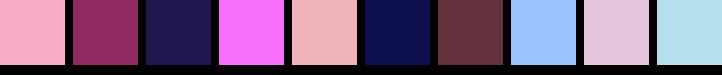
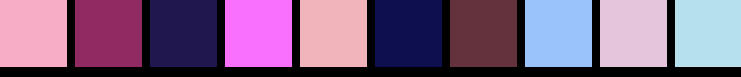
refactored corrected sizing bug

Changed region(s): [[0.2742, 0.8533, 0.6094, 0.88], [0.7008, 0.8533, 1.0, 0.88], [0.0, 0.8533, 0.2133, 0.88]]

diff --git a/src/img_copy.rs b/src/img_copy.rs
@@ -21,9 +21,11 @@ impl FramedPicture {
     ///
     /// # Return
     /// * FramedPicture struct
-    pub fn new(width: u32, height: u32) -> Self {
+    pub fn new(width: u32, height: u32, n: Option<u32>) -> Self {
+        let dims = FramedPicture::compute_palette_size(
+            width, n.unwrap_or(10));
         let w = width + 20;
-        let h = height+ 30 + dims.0;
+        let h = height + 30 + dims.0;
         let tmp: ImageBuffer<Rgba<u8>, Vec<u8>> = ImageBuffer::from_fn(
             w, h, |_,_| { Rgba([255, 252, 234, 1]) });
 
@@ -46,26 +48,26 @@ impl FramedPicture {
     pub fn draw_palette(&mut self, n: u32,
                         top_colors: &Vec<(u32, &ColorCount)>)
                         -> ImageBuffer<Rgba<u8>, Vec<u8>> {
-        let dims =
-            FramedPicture::compute_palette_size(
-                self.buffer.width() - 20, 10);
-        // FIXME correct the width allocation to match length of the original buffer
-        let pwidth = dims.0 * n + dims.1 * 9;
+        let dims = FramedPicture::compute_palette_size(
+            self.buffer.width() - 20, n);
+
+        let pwidth = self.buffer.width() - 20;
         let pheight = dims.0 + 10;
 
         let mut palette = ImageBuffer::new(pwidth, pheight);
 
         let mut xp = 0;
-        for color in top_colors {
+        for color in top_colors { // fill box with each color
             for _ in 0..dims.0 {
                 let mut yp = 0;
                 while yp < dims.0 {
+                    if xp >= pwidth { break; }
                     palette.put_pixel(xp, yp, color.1.rgba);
                     yp += 1;
                 }
                 xp += 1;
             }
-            xp += dims.1; // skip the frame's vertical line
+            xp += dims.1; // keep space between boxes
         }
         palette
     }
@@ -105,7 +107,7 @@ impl FramedPicture {
     /// # Returns
     /// Tuple with the size of square's sides and width of a pillar
     pub fn compute_palette_size(length: u32, boxes: u32) -> (u32, u32){
-        let size = (length - 20) / (boxes + 1);
+        let size = length / (boxes + 1);
         let pillar = (size as f32 * 0.13) as u32;
         (size, pillar)
     }
@@ -117,6 +119,6 @@ impl FramedPicture {
     /// palette - image buffer that contains n boxes separated with pillars.
     pub fn stick_piece(&mut self, palette: &ImageBuffer<Rgba<u8>, Vec<u8>>) {
         imageops::overlay(
-            &mut self.buffer, palette, 10, self.divider);
+            &mut self.buffer, palette, 10, self.y_divider);
     }
 }

diff --git a/src/main.rs b/src/main.rs
@@ -23,8 +23,8 @@ fn main() {
     let top_n = get_most_freq(&colors, n as usize);
 
     let mut imgcpy = FramedPicture::new(
-        img1.width(), img1.height());
-    let mut palette = imgcpy.draw_palette(n as u32, &top_n);
+        img1.width(), img1.height(), Some(n));
+    let palette = imgcpy.draw_palette(n as u32, &top_n);
     imgcpy.copy_img_into(10, &img1);
     imgcpy.stick_piece(&palette);
 
